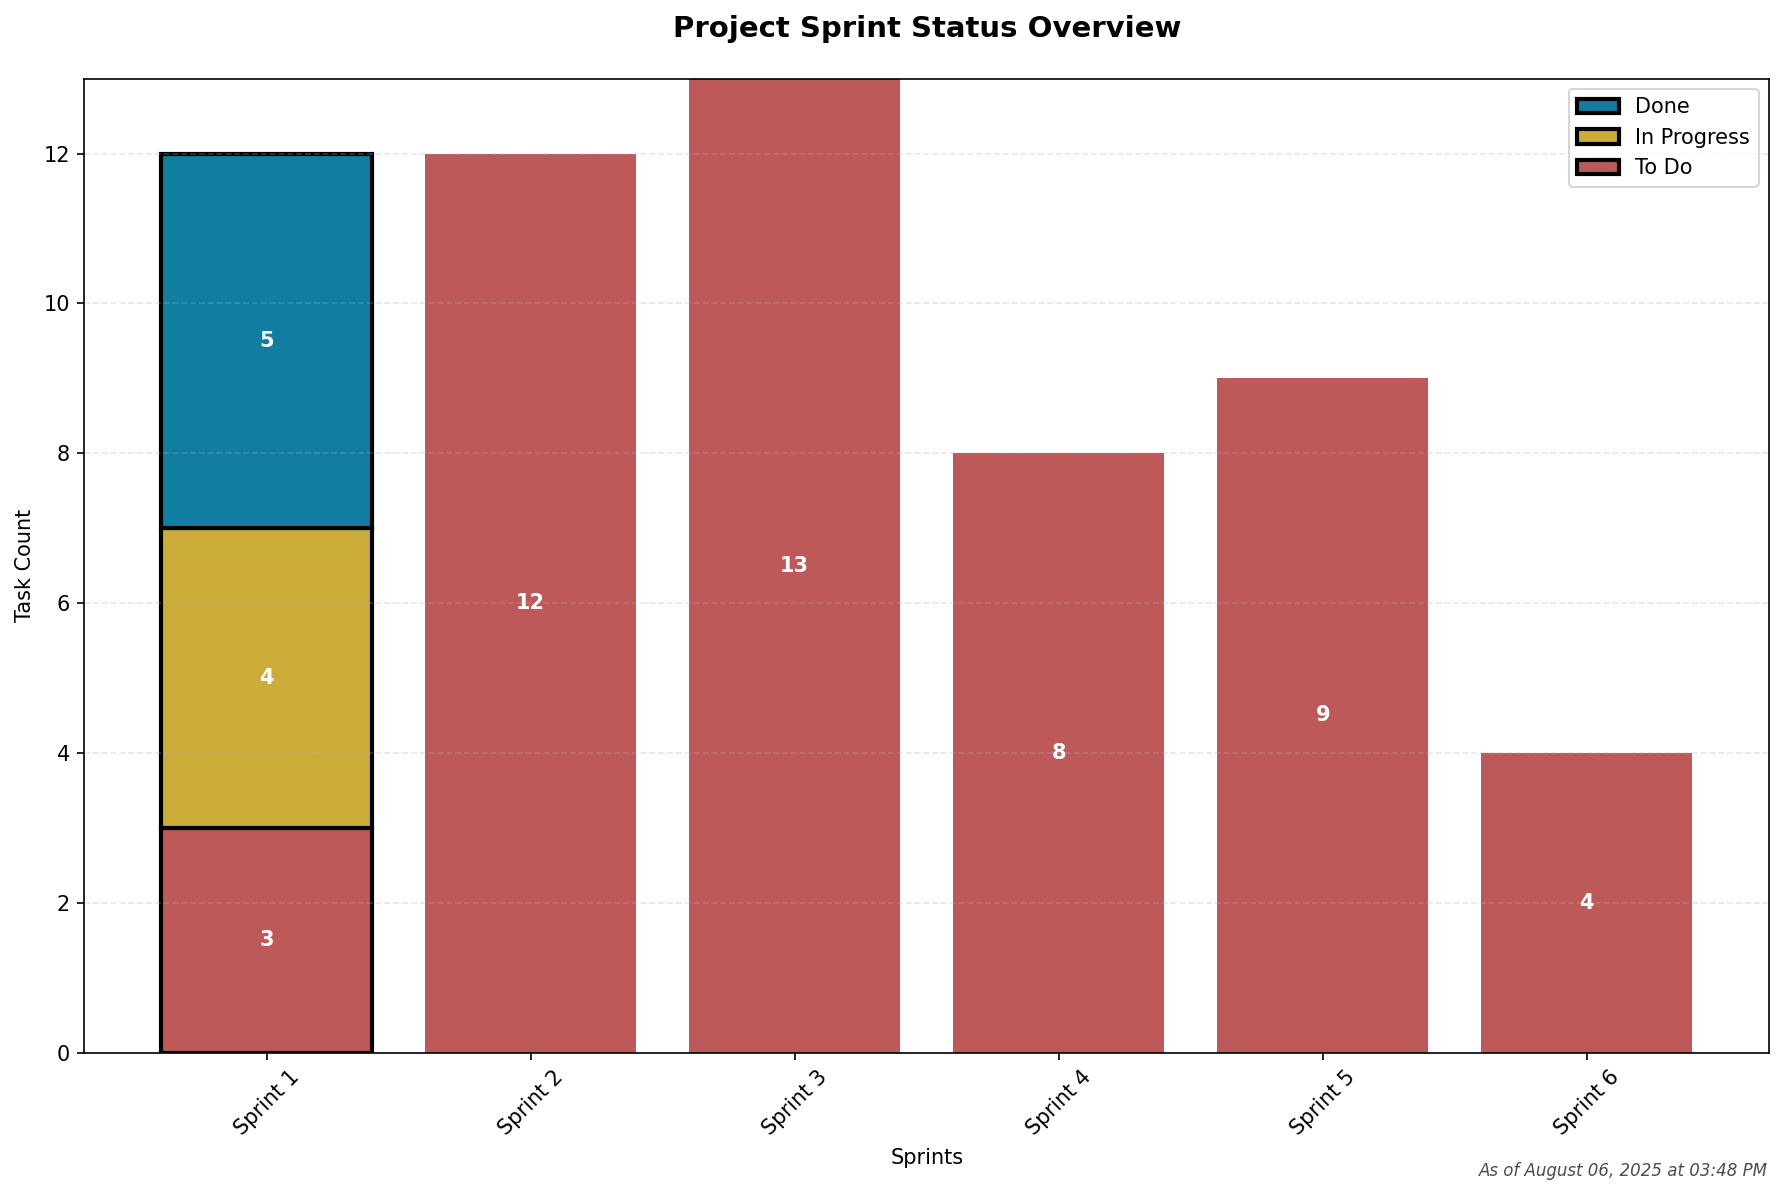
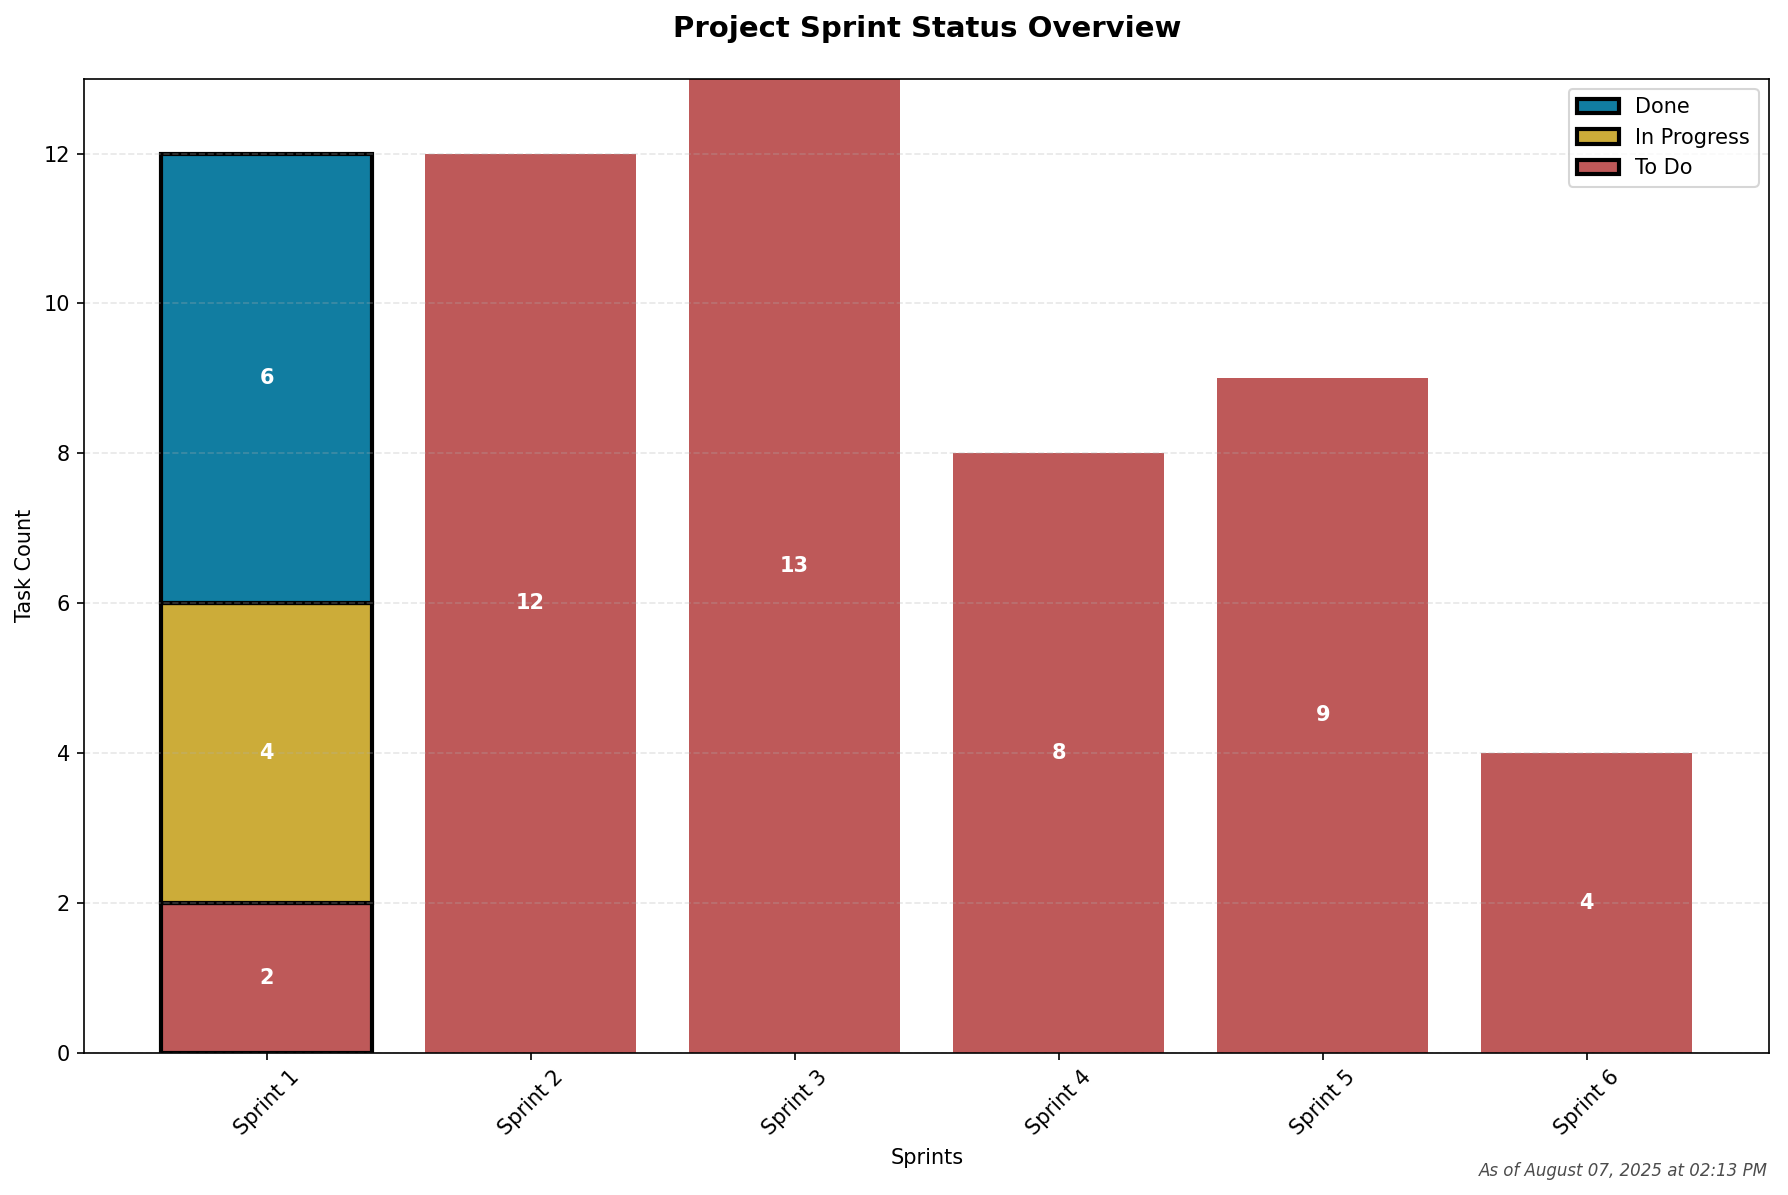
Update sprint chart and project tracker progress
Replaced the sprint_status_chart.png image and updated project_tracker.md to reflect progress on Github access and feature store exploration.

Changed region(s): [[0.0923, 0.6812, 0.2153, 0.7741], [0.0923, 0.4335, 0.2153, 0.5264]]

diff --git a/project_tracker.md b/project_tracker.md
@@ -57,7 +57,7 @@
 - [x] Initial meeting clarifying expectations and intial plan 
 - [~] Gather info and request access to necessary systems and tools
     - [~] Confluence (Keystone & Data Services)
-    - [~] Github
+    - [x] Github
     - [~] Database (LADYSIF & Redshift)
     - [ ] AWS Glue & Sagemaker
     - [x] DBeaver
@@ -65,7 +65,7 @@
 - [x] Set up dev environment
     - [x] Terminal, Python + packages, VSCode, Jupyter
 - [ ] Set up repo, version control, and initial folder structure 
-- [ ] Explore different feature store options (Manually created Redshift or Sagemaker)
+- [~] Explore different feature store options (Manually created Redshift or Sagemaker)
 
 ### Weekly Check-In *(Aug 7 & Aug 15)*
 - **Progress Summary:**  
